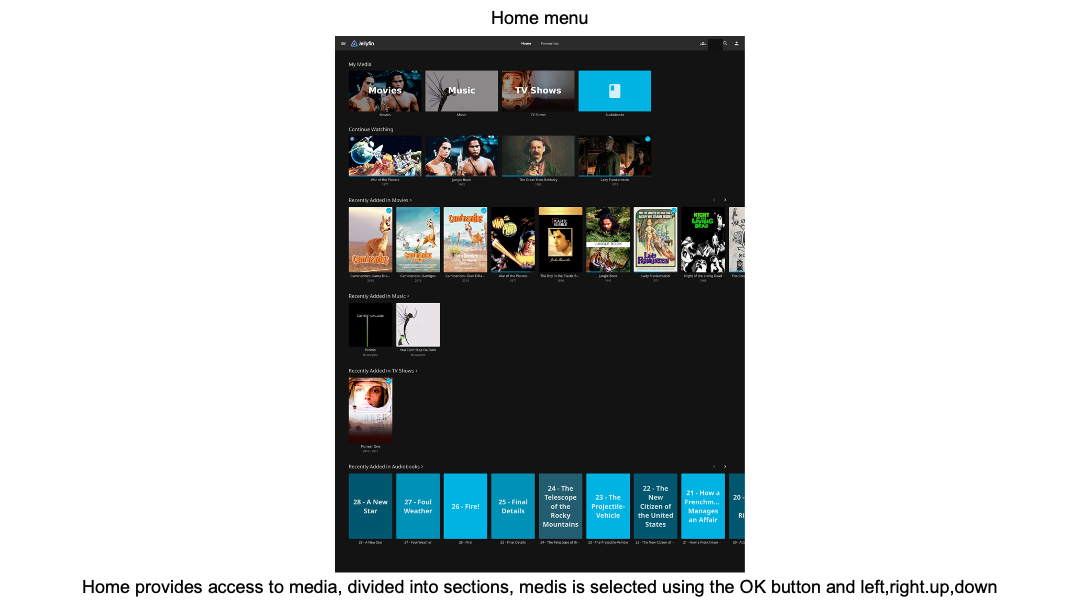
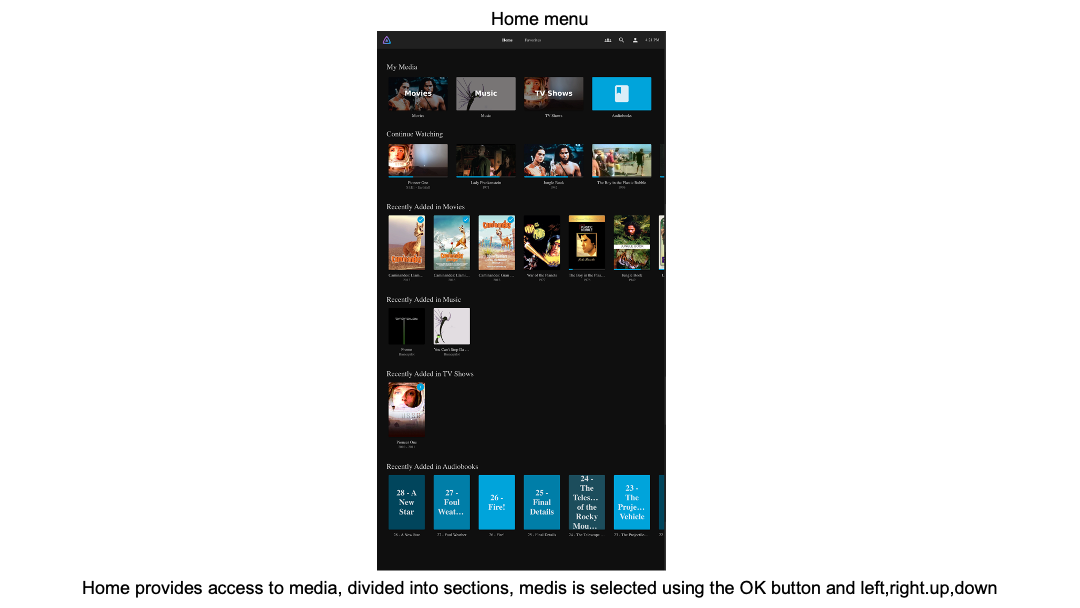
added tv screenshots

Changed region(s): [[0.0917, 0.0, 0.9167, 1.0]]

diff --git a/docs/App-UI-Description/3-Menus-and-Functions/README.md b/docs/App-UI-Description/3-Menus-and-Functions/README.md
@@ -51,3 +51,17 @@ If the screenshots are not in English, provide translations for titles, headings
 <img class="screenshot" alt="Translations" src="./Screenshots/Slide12.png"/></a>
 
 <img class="screenshot" alt="Translations" src="./Screenshots/Slide13.png"/></a>
+
+<img class="screenshot" alt="Translations" src="./Screenshots/Slide13.png"/></a>
+
+<img class="screenshot" alt="Translations" src="./Screenshots/Slide14.png"/></a>
+
+<img class="screenshot" alt="Translations" src="./Screenshots/Slide15.png"/></a>
+
+<img class="screenshot" alt="Translations" src="./Screenshots/Slide16.png"/></a>
+
+<img class="screenshot" alt="Translations" src="./Screenshots/Slide17.png"/></a>
+
+<img class="screenshot" alt="Translations" src="./Screenshots/Slide18.png"/></a>
+
+<img class="screenshot" alt="Translations" src="./Screenshots/Slide19.png"/></a>
